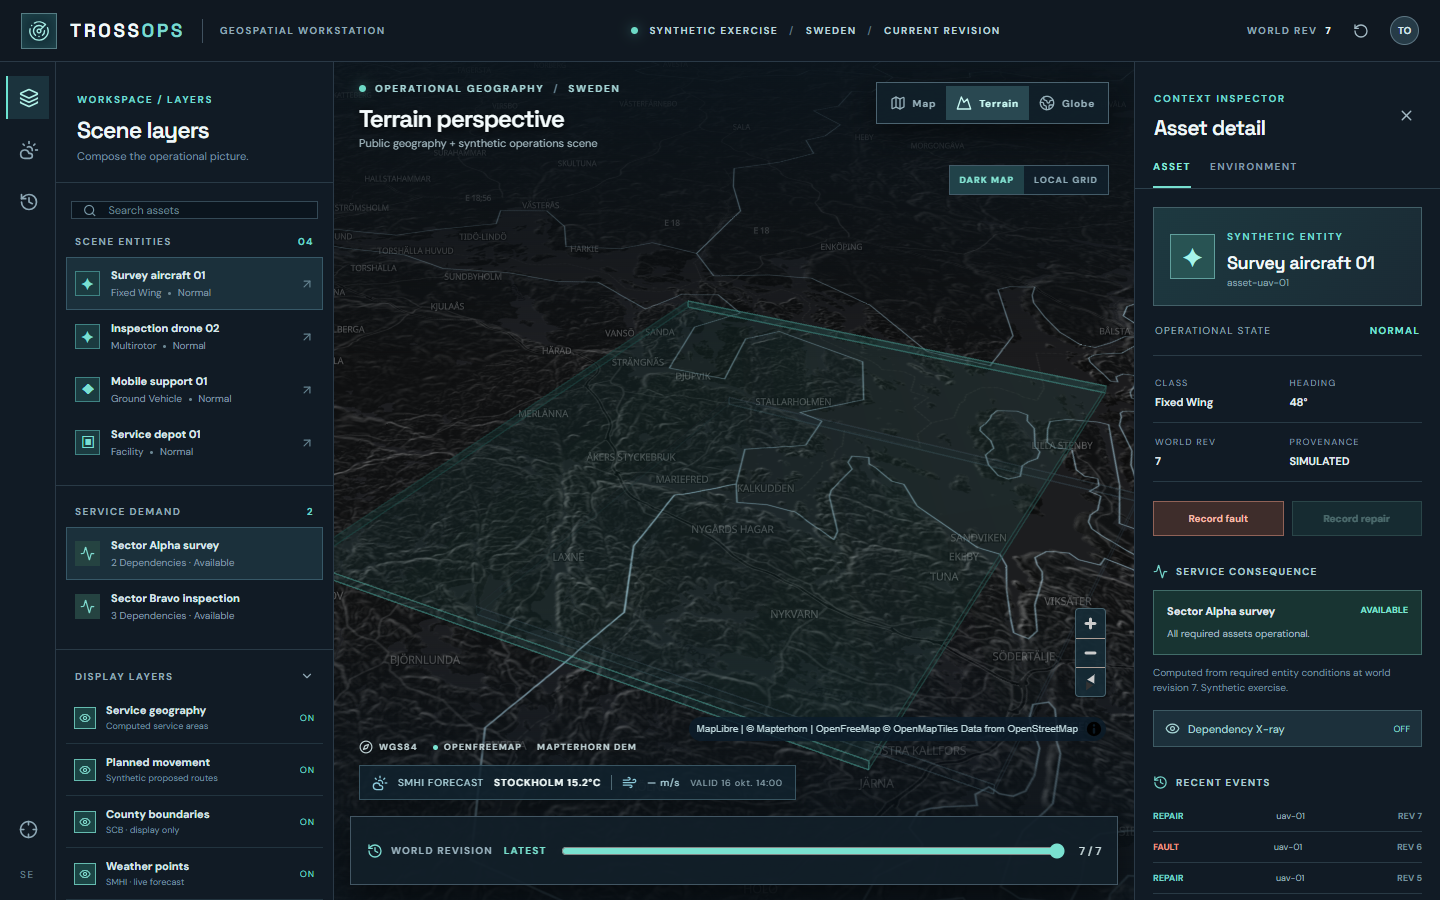
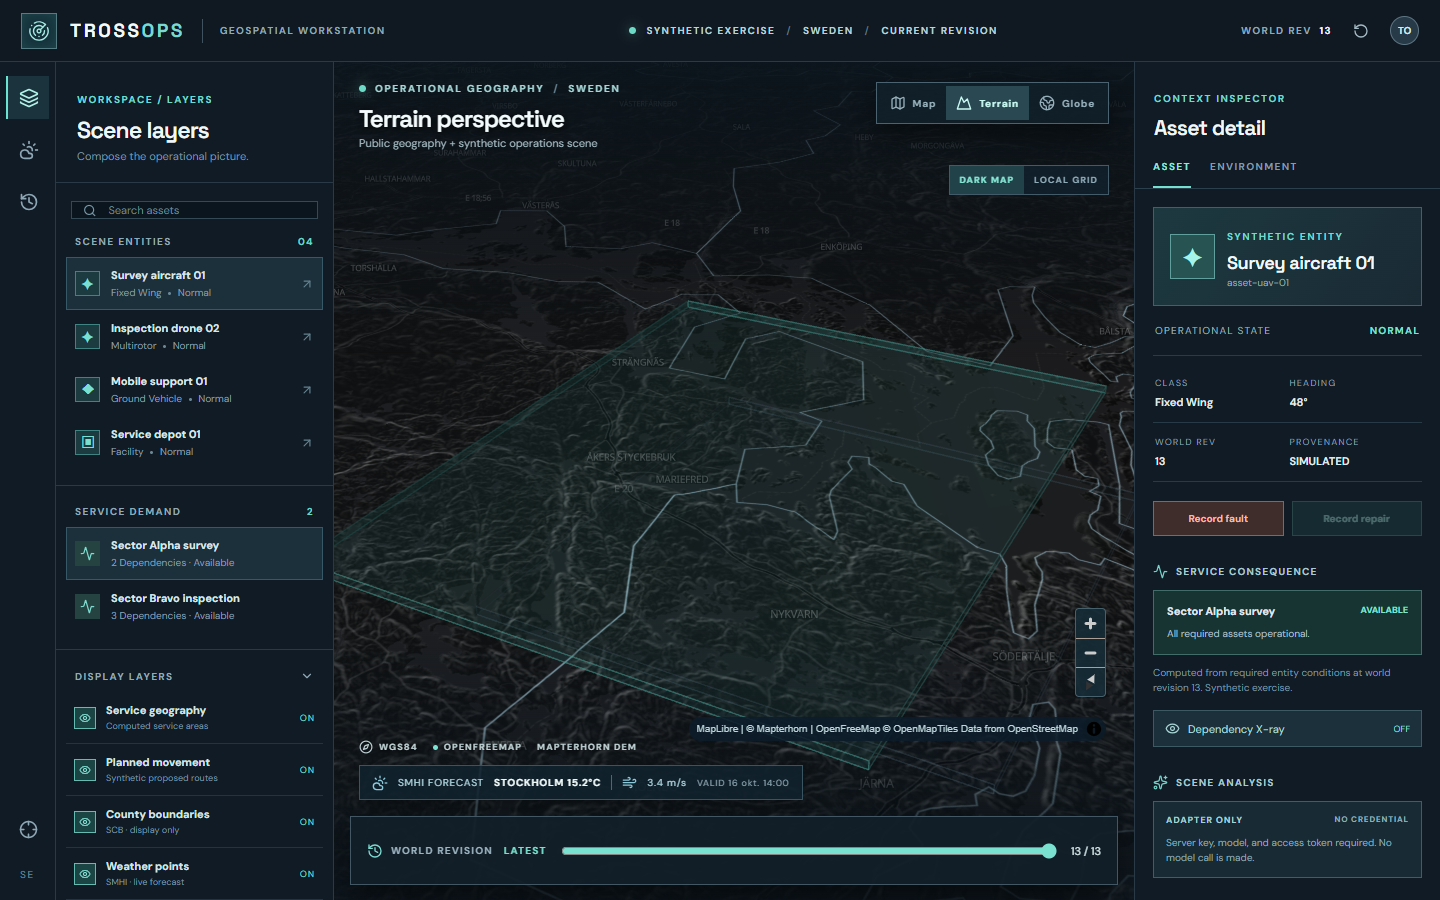
feat: add gated scene analysis adapter and refine map modes

diff --git a/frontend/src/App.tsx b/frontend/src/App.tsx
@@ -2,7 +2,7 @@ import { useEffect, useRef, useState } from 'react'
 import {
   Activity, AlertTriangle, ArrowUpRight, ChevronDown, CloudSun, Compass,
   Crosshair, Database, Eye, EyeOff, Globe2, History, Layers3, Map as MapIcon,
-  MapPin, Mountain, Radar, RotateCcw, Search, Shield, Thermometer, Wind, X,
+  MapPin, Mountain, Radar, RotateCcw, Search, Shield, Sparkles, Thermometer, Wind,
 } from 'lucide-react'
 import { MapScene } from './MapScene'
 import type { Entity, Forecast, Scene, ViewMode } from './types'
@@ -63,6 +63,10 @@ export function App() {
   const [focus, setFocus] = useState<{ point: [number, number]; zoom: number; key: number } | null>(null)
   const [busy, setBusy] = useState(false)
   const [error, setError] = useState('')
+  const [analysisStatus, setAnalysisStatus] = useState<'adapter-only' | 'configured'>('adapter-only')
+  const [analysis, setAnalysis] = useState<{ answer: string; worldRevision: number; serviceId: string; model: string } | null>(null)
+  const [analysisBusy, setAnalysisBusy] = useState(false)
+  const [analysisAccessToken, setAnalysisAccessToken] = useState('')
   const revisionRequest = useRef(0)
 
   const selected = scene?.entities.find(entity => entity.id === selectedId)
@@ -98,6 +102,7 @@ export function App() {
   useEffect(() => {
     void refreshScene()
     void refreshForecasts()
+    void fetch('/api/analysis/status').then(response => response.json()).then(value => setAnalysisStatus(value.status)).catch(() => setAnalysisStatus('adapter-only'))
     const timer = window.setInterval(() => void refreshForecasts(), 10 * 60 * 1000)
     return () => window.clearInterval(timer)
   }, [])
@@ -127,6 +132,20 @@ export function App() {
       if (!response.ok) throw new Error((await response.json()).detail ?? `Event failed: ${response.status}`)
       setScene(await response.json())
     } catch (cause) { setError(String(cause)) } finally { setBusy(false) }
+  }
+
+  async function requestAnalysis() {
+    if (!scene || analysisStatus !== 'configured') return
+    setAnalysisBusy(true)
+    setError('')
+    try {
+      const response = await fetch('/api/analysis/service', {
+        method: 'POST', headers: { 'Content-Type': 'application/json', 'X-TrossOps-Analysis-Token': analysisAccessToken },
+        body: JSON.stringify({ serviceId: selectedServiceId, worldRevision: scene.worldRevision }),
+      })
+      if (!response.ok) throw new Error('Model analysis is unavailable.')
+      setAnalysis(await response.json())
+    } catch (cause) { setError(String(cause)) } finally { setAnalysisBusy(false) }
   }
 
   function focusCity(key: string) {
@@ -180,9 +199,10 @@ export function App() {
         {error && <div role="alert" className="ws-error"><AlertTriangle size={16} /><span>{error}</span><button onClick={() => void refreshScene()}>Reload scene</button></div>}
       </main>
 
-      <aside className="ws-inspector"><div className="ws-inspector-head"><div><span className="ws-eyebrow">CONTEXT INSPECTOR</span><h2>{inspectorTab === 'asset' ? 'Asset detail' : 'Environmental data'}</h2></div><button title="Close inspector" onClick={() => setInspectorTab(inspectorTab === 'asset' ? 'environment' : 'asset')}><X size={17} /></button></div><div className="ws-inspector-tabs"><button className={inspectorTab === 'asset' ? 'active' : ''} onClick={() => setInspectorTab('asset')}>ASSET</button><button className={inspectorTab === 'environment' ? 'active' : ''} onClick={() => setInspectorTab('environment')}>ENVIRONMENT</button></div>
+      <aside className="ws-inspector"><div className="ws-inspector-head"><div><span className="ws-eyebrow">CONTEXT INSPECTOR</span><h2>{inspectorTab === 'asset' ? 'Asset detail' : 'Environmental data'}</h2></div></div><div className="ws-inspector-tabs"><button className={inspectorTab === 'asset' ? 'active' : ''} onClick={() => setInspectorTab('asset')}>ASSET</button><button className={inspectorTab === 'environment' ? 'active' : ''} onClick={() => setInspectorTab('environment')}>ENVIRONMENT</button></div>
         {inspectorTab === 'asset' ? <div className="ws-inspector-content"><div className="ws-object-card"><div className="ws-object-icon">{selected?.kind === 'facility' ? '▣' : selected?.kind === 'ground_vehicle' ? '◆' : '✦'}</div><div><span className="ws-eyebrow">SYNTHETIC ENTITY</span><h3>{selected?.label ?? 'Select an asset'}</h3><p>{selected?.resourceId ?? 'No selection'}</p></div></div>{selected && <><div className="ws-status-line"><span>OPERATIONAL STATE</span><b className={selected.condition}>{selected.condition.toUpperCase()}</b></div><div className="ws-detail-grid"><div><span>CLASS</span><b>{selected.kind.replace('_', ' ')}</b></div><div><span>HEADING</span><b>{selected.headingDeg}°</b></div><div><span>WORLD REV</span><b>{selected.worldRevision}</b></div><div><span>PROVENANCE</span><b>SIMULATED</b></div></div><div className="ws-object-actions"><button disabled={busy || replaying || selected.condition === 'unavailable'} onClick={() => void update('fault')}>Record fault</button><button disabled={busy || replaying || selected.condition === 'normal'} onClick={() => void update('repair')}>Record repair</button></div></>}
           <div className="ws-section-title"><Activity size={15} /> SERVICE CONSEQUENCE</div><div className={`ws-consequence ${service?.status ?? ''}`}><div><span>{service?.label ?? 'Loading...'}</span><b>{service?.status?.toUpperCase() ?? '—'}</b></div><p>{service?.blockers.length ? service.blockers.join(' · ') : 'All required assets operational.'}</p></div><p className="ws-evidence">Computed from required entity conditions at world revision {scene?.worldRevision ?? '—'}. Synthetic exercise.</p><button className={`ws-xray ${layers.dependencies ? 'active' : ''}`} onClick={() => toggleLayer('dependencies')}><Eye size={15} /> Dependency X-ray <span>{layers.dependencies ? 'ON' : 'OFF'}</span></button>
+          <div className="ws-section-title"><Sparkles size={15} /> SCENE ANALYSIS</div><div className="ws-ai-card"><div className="ws-ai-status"><span>{analysisStatus === 'configured' ? 'OPENAI ADAPTER READY' : 'ADAPTER ONLY'}</span><b>{analysisStatus === 'configured' ? 'CONFIGURED' : 'NO CREDENTIAL'}</b></div>{analysisStatus === 'configured' ? <><input type="password" aria-label="Analysis access token" placeholder="Analysis access token" value={analysisAccessToken} onChange={event => setAnalysisAccessToken(event.target.value)} /><button disabled={analysisBusy || !analysisAccessToken} onClick={() => void requestAnalysis()}>{analysisBusy ? 'Generating…' : 'Analyze selected service'}</button></> : <p>Server key, model, and access token required. No model call is made.</p>}{analysis && analysis.worldRevision === scene?.worldRevision && analysis.serviceId === selectedServiceId && <div className="ws-ai-answer"><span>MODEL GENERATED · {analysis.model} · REV {analysis.worldRevision}</span><p>{analysis.answer}</p></div>}</div>
           <div className="ws-section-title"><History size={15} /> RECENT EVENTS</div><div className="ws-mini-events">{scene?.events.length ? [...scene.events].reverse().slice(0, 3).map(event => <div key={event.id}><span className={event.kind}>{event.kind.toUpperCase()}</span><span>{event.assetId}</span><b>REV {event.worldRevision}</b></div>) : <p>No events at this revision.</p>}</div>
         </div> : <div className="ws-inspector-content"><div className="ws-weather-title"><span className="ws-eyebrow">SMHI / POINT FORECAST</span><h3>{forecast?.label ?? selectedLocation}</h3><p>{forecast?.status === 'connected' ? `Valid ${formatTime(forecast.validTime)}` : 'Live forecast unavailable'}</p></div>{forecast?.status === 'connected' ? <><div className="ws-weather-hero"><Thermometer size={22} /><strong>{numberText(forecast.data?.air_temperature, 1)}<sup>°C</sup></strong><span>FORECAST AIR TEMPERATURE</span></div><div className="ws-weather-metrics"><div><Wind size={17} /><span>WIND SPEED</span><b>{numberText(forecast.data?.wind_speed, 1)} m/s</b></div><div><Compass size={17} /><span>WIND FROM</span><b>{numberText(forecast.data?.wind_from_direction)}°</b></div><div><CloudSun size={17} /><span>CLOUD COVER</span><b>{numberText(forecast.data?.cloud_area_fraction)} / 8</b></div><div><CloudSun size={17} /><span>PRECIP. PROB.</span><b>{numberText(forecast.data?.probability_of_precipitation)}%</b></div></div><div className="ws-forecast-meta"><div><span>FORECAST ISSUED</span><b>{formatTime(forecast.referenceTime)}</b></div><div><span>GRID POINT</span><b>{forecast.gridPoint?.map(value => value.toFixed(3)).join(', ') ?? '—'}</b></div><a href={forecast.sourceUrl} target="_blank" rel="noreferrer">SMHI source <ArrowUpRight size={14} /></a></div></> : <p className="ws-unavailable">{forecast?.reason ?? 'Connecting to SMHI...'}</p>}<div className="ws-source-note"><Shield size={16} /><span>Forecast values are modelled, time stamped environmental data. They are not observations or synthetic operational facts.</span></div></div>}
         <div className="ws-inspector-footer"><span className="ws-online-pip" /> {scene?.sourceKind?.toUpperCase() ?? 'CONNECTING'} WORLD <span>MODEL {scene?.modelVersion ?? '—'}</span></div>

diff --git a/frontend/src/MapScene.tsx b/frontend/src/MapScene.tsx
@@ -93,6 +93,7 @@ export function MapScene({ scene, selectedId, selectedServiceId, showDependencie
     if (!instance || !instance.isStyleLoaded()) return
     instance.setProjection({ type: viewMode === 'globe' ? 'globe' : 'mercator' })
     if (viewMode !== 'terrain' && instance.getTerrain()) instance.setTerrain(null)
+    if (viewMode !== 'terrain' && instance.getLayer('terrain-shade')) instance.removeLayer('terrain-shade')
     if (viewMode === 'terrain' && basemapMode === 'online' && instance.isStyleLoaded()) {
       if (!instance.getSource('mapterhorn-dem')) instance.addSource('mapterhorn-dem', { type: 'raster-dem', url: 'https://tiles.mapterhorn.com/tilejson.json' })
       instance.setTerrain({ source: 'mapterhorn-dem', exaggeration: 1.4 })

diff --git a/frontend/src/analysis.css b/frontend/src/analysis.css
@@ -1,0 +1,1 @@
+.ws-ai-card{padding:12px;border:1px solid #3e5d68;background:#182b35}.ws-ai-status{display:flex;justify-content:space-between;gap:8px;color:#a6d2d6;font-size:9px;font-weight:700;letter-spacing:.1em}.ws-ai-status b{color:#8fadb8;font-size:8px}.ws-ai-card>p{color:#8ba5b1;font-size:10px;line-height:1.5;margin:9px 0 0}.ws-ai-card>button{width:100%;margin-top:12px;padding:9px;background:#275153;border:1px solid #68ada8;color:#c5f4ed;font-size:10px;font-weight:700}.ws-ai-card>button:disabled{opacity:.5}.ws-ai-answer{border-top:1px solid #3e5d68;margin-top:13px;padding-top:11px}.ws-ai-answer span{font-size:8px;letter-spacing:.1em;color:#82d5ca}.ws-ai-answer p{white-space:pre-wrap;color:#d4e6e8;font-size:11px;line-height:1.6;margin:8px 0 0}

diff --git a/frontend/src/main.tsx b/frontend/src/main.tsx
@@ -9,6 +9,8 @@ import './basemap.css'
 import './workstation-controls.css'
 import './status.css'
 import './studio.css'
+import './analysis.css'
+import './analysis-access.css'
 import { App } from './App'
 
 createRoot(document.getElementById('root')!).render(<React.StrictMode><App /></React.StrictMode>)

diff --git a/frontend/src/analysis-access.css b/frontend/src/analysis-access.css
@@ -1,0 +1,1 @@
+.ws-ai-card>input{width:100%;margin-top:12px;padding:8px;background:#101f28;border:1px solid #4a6570;color:#e6f3f3;font-size:10px;outline:0}.ws-ai-card>input:focus{border-color:#74c9bd}

diff --git a/backend/app/advisor.py b/backend/app/advisor.py
@@ -1,0 +1,95 @@
+"""Optional, explicitly enabled OpenAI Responses adapter for synthetic scene analysis."""
+
+from __future__ import annotations
+
+import json
+import os
+
+import httpx
+
+
+INSTRUCTIONS = """You are a TrossOps synthetic exercise analyst.
+Use only the JSON scene facts provided. Every operational entity, route, and service is simulated.
+Explain the selected service state, its blockers, and the evidence at the given world revision.
+Keep the answer under 180 words. State that this is exercise data.
+Never imply real Swedish military activity, live telemetry, asset readiness, or a safety guarantee.
+If facts do not support a claim, say that they do not establish it."""
+
+
+def status() -> dict:
+    configured = bool(
+        os.environ.get("TROSSOPS_ENABLE_LLM") == "1"
+        and os.environ.get("OPENAI_API_KEY")
+        and os.environ.get("TROSSOPS_LLM_MODEL")
+        and os.environ.get("TROSSOPS_LLM_ACCESS_TOKEN")
+    )
+    return {
+        "status": "configured" if configured else "adapter-only",
+        "provider": "OpenAI Responses API",
+        "model": os.environ.get("TROSSOPS_LLM_MODEL") if configured else None,
+        "notice": "Model-generated analysis of synthetic exercise facts only." if configured
+                  else "Set TROSSOPS_ENABLE_LLM=1, OPENAI_API_KEY, TROSSOPS_LLM_MODEL, and TROSSOPS_LLM_ACCESS_TOKEN on the server to enable paid analysis.",
+    }
+
+
+def scene_facts(scene: dict, service_id: str) -> dict:
+    service = next((item for item in scene["services"] if item["id"] == service_id), None)
+    if service is None:
+        raise KeyError(service_id)
+    required = [
+        {"id": item["id"], "label": item["label"], "condition": item["condition"], "sourceKind": item["sourceKind"]}
+        for item in scene["entities"] if item["id"] in service["requiredEntityIds"]
+    ]
+    return {
+        "sourceKind": "simulated",
+        "scenarioId": scene["scenarioId"],
+        "worldRevision": scene["worldRevision"],
+        "modelVersion": scene["modelVersion"],
+        "service": {"id": service["id"], "label": service["label"], "status": service["status"],
+                    "requiredEntityIds": service["requiredEntityIds"], "blockers": service["blockers"]},
+        "requiredEntities": required,
+    }
+
+
+def extract_text(response: dict) -> str:
+    parts = [
+        content["text"]
+        for item in response.get("output", [])
+        if item.get("type") == "message"
+        for content in item.get("content", [])
+        if content.get("type") == "output_text" and isinstance(content.get("text"), str)
+    ]
+    if not parts:
+        raise ValueError("Model returned no text")
+    return "\n".join(parts).strip()
+
+
+def analyze(facts: dict) -> dict:
+    config = status()
+    if config["status"] != "configured":
+        raise RuntimeError("LLM adapter is not configured")
+    payload = {
+        "model": config["model"],
+        "instructions": INSTRUCTIONS,
+        "input": json.dumps(facts, separators=(",", ":")),
+        "max_output_tokens": 350,
+        "store": False,
+    }
+    with httpx.Client(timeout=45.0) as client:
+        response = client.post(
+            "https://api.openai.com/v1/responses",
+            headers={"Authorization": f"Bearer {os.environ['OPENAI_API_KEY']}"},
+            json=payload,
+        )
+        response.raise_for_status()
+        answer = extract_text(response.json())
+    return {
+        "status": "generated",
+        "provider": "OpenAI Responses API",
+        "model": config["model"],
+        "sourceKind": "model-generated",
+        "worldRevision": facts["worldRevision"],
+        "serviceId": facts["service"]["id"],
+        "answer": answer,
+        "notice": "AI-generated interpretation of synthetic exercise facts. Verify against the source scene.",
+    }

diff --git a/backend/tests/test_advisor.py b/backend/tests/test_advisor.py
@@ -1,0 +1,52 @@
+import pytest
+from fastapi.testclient import TestClient
+
+from app import advisor
+from app.main import World, app
+
+
+def test_advisor_facts_follow_requested_revision():
+    world = World()
+    first = world.snapshot(1)
+    facts = advisor.scene_facts(first, "survey-sector-alpha")
+    assert facts["worldRevision"] == 1
+    assert facts["service"]["status"] == "available"
+    assert {item["id"] for item in facts["requiredEntities"]} == {"uav-01", "support-01"}
+    assert all(item["sourceKind"] == "simulated" for item in facts["requiredEntities"])
+    with pytest.raises(KeyError):
+        advisor.scene_facts(first, "missing")
+
+
+def test_advisor_output_extraction_skips_nontext_items():
+    result = {"output": [
+        {"type": "reasoning", "content": []},
+        {"type": "message", "content": [{"type": "output_text", "text": "Synthetic service is available."}]},
+    ]}
+    assert advisor.extract_text(result) == "Synthetic service is available."
+    with pytest.raises(ValueError):
+        advisor.extract_text({"output": []})
+
+
+def test_advisor_is_disabled_without_configuration(monkeypatch):
+    monkeypatch.delenv("TROSSOPS_ENABLE_LLM", raising=False)
+    monkeypatch.delenv("OPENAI_API_KEY", raising=False)
+    monkeypatch.delenv("TROSSOPS_LLM_MODEL", raising=False)
+    monkeypatch.delenv("TROSSOPS_LLM_ACCESS_TOKEN", raising=False)
+    assert advisor.status()["status"] == "adapter-only"
+    with pytest.raises(RuntimeError):
+        advisor.analyze({"worldRevision": 1, "service": {"id": "x"}})
+    client = TestClient(app)
+    assert client.get("/api/analysis/status").json()["status"] == "adapter-only"
+    response = client.post("/api/analysis/service", json={"serviceId": "survey-sector-alpha", "worldRevision": 1})
+    assert response.status_code == 503
+
+
+def test_advisor_rejects_missing_access_token(monkeypatch):
+    monkeypatch.setenv("TROSSOPS_ENABLE_LLM", "1")
+    monkeypatch.setenv("OPENAI_API_KEY", "test-only")
+    monkeypatch.setenv("TROSSOPS_LLM_MODEL", "test-model")
+    monkeypatch.setenv("TROSSOPS_LLM_ACCESS_TOKEN", "test-secret")
+    client = TestClient(app)
+    assert client.get("/api/analysis/status").json()["status"] == "configured"
+    response = client.post("/api/analysis/service", json={"serviceId": "survey-sector-alpha", "worldRevision": 1})
+    assert response.status_code == 401

diff --git a/backend/app/main.py b/backend/app/main.py
@@ -3,16 +3,19 @@ from __future__ import annotations
 from copy import deepcopy
 from datetime import datetime, timezone
 import os
+import hmac
 from pathlib import Path
 import sqlite3
 from threading import Lock
 from typing import Literal
 
-from fastapi import FastAPI, HTTPException
+import httpx
+from fastapi import FastAPI, Header, HTTPException
 from fastapi.middleware.cors import CORSMiddleware
 from pydantic import BaseModel, Field
 
 from .weather import PUBLIC_POINTS, WeatherService
+from . import advisor
 
 
 class Position(BaseModel):
@@ -40,6 +43,11 @@ class EventIn(BaseModel):
     assetId: str
     kind: Literal["fault", "repair"]
     expectedRevision: int = Field(ge=1)
+
+
+class AnalysisIn(BaseModel):
+    serviceId: str
+    worldRevision: int = Field(ge=1)
 
 
 class World:
@@ -169,3 +177,25 @@ def environment_forecast(location: str) -> dict:
     if location not in PUBLIC_POINTS:
         raise HTTPException(404, "Forecast point not found")
     return weather.get(location)
+
+
+@app.get("/api/analysis/status")
+def analysis_status() -> dict:
+    return advisor.status()
+
+
+@app.post("/api/analysis/service")
+def analyze_service(request: AnalysisIn, x_trossops_analysis_token: str = Header(default="")) -> dict:
+    if advisor.status()["status"] != "configured":
+        raise HTTPException(503, "LLM adapter is not configured")
+    if not hmac.compare_digest(x_trossops_analysis_token, os.environ["TROSSOPS_LLM_ACCESS_TOKEN"]):
+        raise HTTPException(401, "Analysis access token required")
+    scene_data = world.snapshot(request.worldRevision)
+    try:
+        facts = advisor.scene_facts(scene_data, request.serviceId)
+    except KeyError:
+        raise HTTPException(404, "Service not found") from None
+    try:
+        return advisor.analyze(facts)
+    except (httpx.HTTPError, ValueError):
+        raise HTTPException(502, "Model analysis unavailable") from None

diff --git a/docs/geospatial/verification.md b/docs/geospatial/verification.md
@@ -4,9 +4,10 @@
 
 ## Executed
 
-- `cd backend; python -m pytest -q`: **5 passed**. Tests cover revisioned synthetic world behavior and SMHI forecast parsing.
+- `cd backend; python -m pytest -q`: **9 passed**. Tests cover revisioned synthetic world behavior, SMHI forecast parsing, LLM fact selection/output parsing, and disabled/token-gated adapter responses.
 - `cd frontend; npm.cmd run build`: **passed** with MapLibre GL JS 6.14.0 and deck.gl 9.4.0. Vite reports a large main JS chunk; splitting remains open.
 - `cd frontend; node scripts/verify-local.mjs`: **passed**, page errors **0**. Exercised search, county toggle, terrain and globe mode switches, weather inspector, fault → service consequence → replay → repair, and forced online tile failure → local grid.
+- The browser showed **adapter-only** for the analysis section; no model request was made.
 - Live API request for Stockholm returned a connected SMHI forecast with air temperature, wind speed/direction, cloud cover, and forecast timestamps.
 
 ## Artifacts
@@ -20,4 +21,4 @@
 
 ## Limits
 
-The terrain view uses real elevation tiles but synthetic service areas are illustrative extrusions; deck.gl overlays are not draped onto terrain. SCB boundaries are simplified for thematic display. Weather is a forecast, not an observation, and does not drive service status. No FPS, cinematic quality, hosted persistence, live telemetry, LLM, or production deployment claim is made.
+The terrain view uses real elevation tiles but synthetic service areas are illustrative extrusions; deck.gl overlays are not draped onto terrain. SCB boundaries are simplified for thematic display. Weather is a forecast, not an observation, and does not drive service status. No FPS, cinematic quality, hosted persistence, live telemetry, live LLM, or production deployment claim is made.

diff --git a/README.md b/README.md
@@ -32,4 +32,8 @@ npm.cmd run build
 node scripts/verify-local.mjs
 ```
 
-The browser test uses installed Microsoft Edge and running API/UI servers. See [integration matrix](docs/geospatial/integration-matrix.md) and [verification log](docs/geospatial/verification.md) for exact limits. Hosted persistence, live telemetry, and LLM responses are not yet connected.
+The browser test uses installed Microsoft Edge and running API/UI servers. See [integration matrix](docs/geospatial/integration-matrix.md) and [verification log](docs/geospatial/verification.md) for exact limits. Hosted persistence and live telemetry are not connected.
+
+## Optional scene analysis
+
+The OpenAI Responses adapter is **adapter-only** until `TROSSOPS_ENABLE_LLM=1`, `OPENAI_API_KEY`, `TROSSOPS_LLM_MODEL`, and `TROSSOPS_LLM_ACCESS_TOKEN` are set on the API server. Enter the access token in the inspector to authorize each analysis request. The token remains in browser memory; the API key stays server-side. A request sends only the selected synthetic service facts at a chosen world revision, sets `store: false`, and labels output as model-generated. This path was tested with mocks and in its disabled state; no paid model call has been made. See [the environment template](.env.example).

diff --git a/docs/geospatial/integration-matrix.md b/docs/geospatial/integration-matrix.md
@@ -10,6 +10,6 @@
 | Swedish weather | working | Live SMHI SNOW1G point forecasts at four public city coordinates, with forecast and valid times. Weather does not feed service feasibility. |
 | OpenFreeMap / local grid | working | Online style loaded and forced failure fell back to the local scene in Edge. Public map provider has no SLA. |
 | Hosted database | planned | Local SQLite file is unsuitable for Vercel serverless persistence; provision a transactional Postgres service before deployment. |
-| LLM scene analysis | planned | Add a credential-gated adapter and explicit provenance before claims of live AI analysis. |
+| LLM scene analysis | adapter-only | OpenAI Responses adapter and access-token gate implemented; disabled-state API/UI and pure functions tested. Needs user-provided key, model, token, and an authorized paid live call. |
 | Asset/ERP records, telemetry | planned | Define authorized source, freshness and identity contracts. Current assets remain synthetic. |
 | NATS / SpacetimeDB | planned | Connect after the source and projection contracts exist. |
